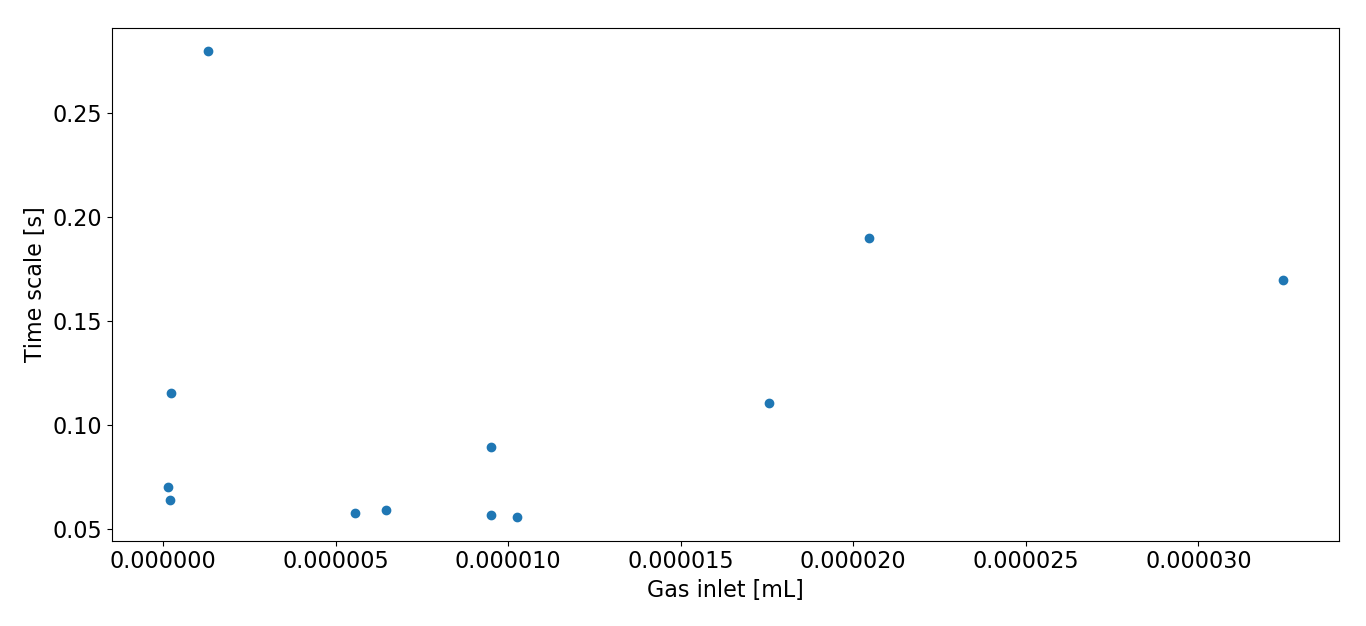
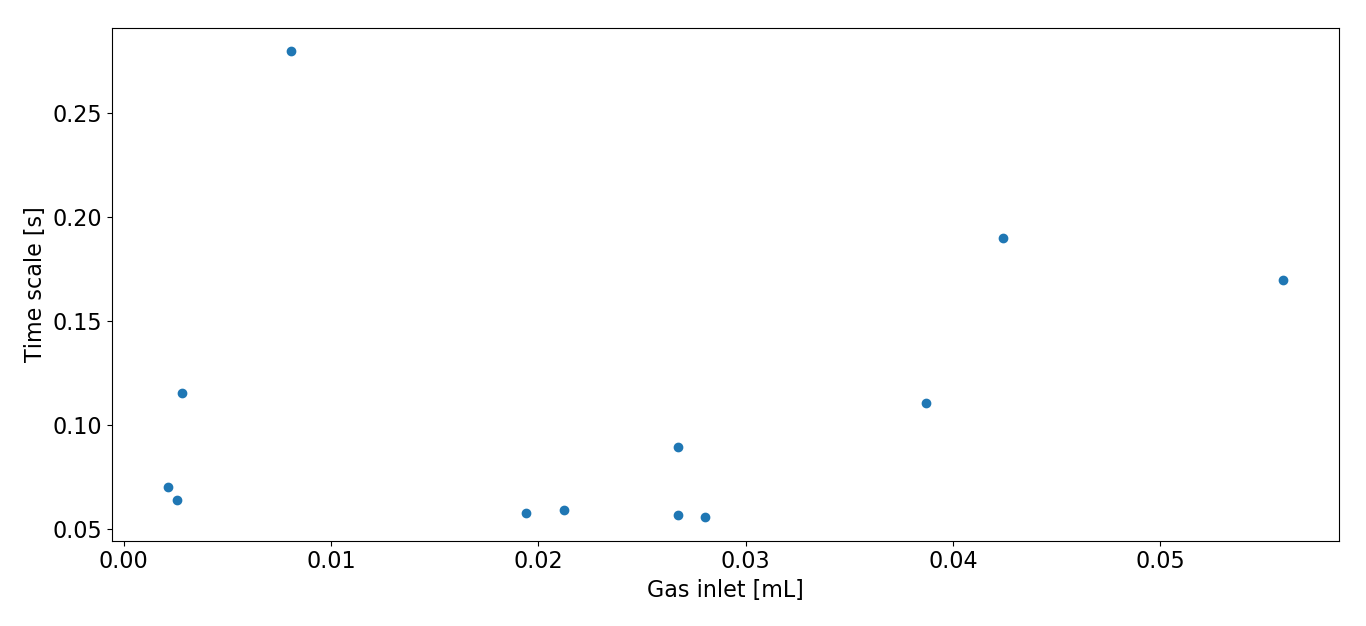
stuff modified

diff --git a/Exp 6/report/main.tex b/Exp 6/report/main.tex
@@ -250,18 +250,18 @@ where $P_i$ and $V_i$ are the initial pressure and initial volume inside the noz
 \centering
 \begin{tabular}{ccc} \toprule
     Gas inlet [mL] & Opening time [$\mu$s] & Frequency \\ \midrule
-$1.4\cdot 10^{-7} \pm 3\cdot 10^{-8}$& 120& 1\\
-$5\cdot 10^{-6} \pm 1\cdot 10^{-6}$& 190& 1\\
-$9\cdot 10^{-6} \pm 2\cdot 10^{-6}$& 230& 1\\\midrule
-$1.9\cdot 10^{-7} \pm 5\cdot 10^{-8}$& 120& 2\\
-$6\cdot 10^{-6} \pm 2\cdot 10^{-6}$& 190& 2\\
-$1.0\cdot 10^{-5} \pm 2\cdot 10^{-6}$& 230& 2\\ \midrule
-$2.2\cdot 10^{-7} \pm 5\cdot 10^{-8}$& 120& 5\\
-$9\cdot 10^{-6} \pm 2\cdot 10^{-6}$ & 190& 5\\ 
-$1.7\cdot 10^{-5} \pm 4\cdot 10^{-6}$ & 230& 5\\\midrule
-$1.3\cdot 10^{-6} \pm 3\cdot 10^{-7}$& 120& 10\\ 
-$2.0\cdot 10^{-5} \pm 5\cdot 10^{-6}$ & 190& 10\\
-$3.2\cdot 10^{-5} \pm 8\cdot 10^{-6}$ & 230& 10\\ \bottomrule
+0.0021 $\pm$ 0.0005 & 120& 1 \\
+0.019 $\pm$ 0.005& 190& 1\\
+0.027 $\pm$ 0.007 & 230& 1\\\midrule
+0.028 $\pm$ 0.007& 230& 2\\
+0.021$\pm$ 0.005& 190& 2\\
+0.0025$\pm$ 0.0006& 120& 2\\\midrule
+0.0028 $\pm$ 0.0007& 120& 5\\
+0.027$\pm$ 0.007 & 190& 5\\
+0.04 $\pm$ 0.01 & 230& 5\\\midrule
+0.05 $\pm$ 0.01& 230& 10\\
+0.04$\pm$ 0.01& 190& 10\\
+0.008$\pm$ 0.002& 120& 10\\\bottomrule
 \end{tabular}
 \caption{Gas inlet for various opening times and frequencies. }
 \end{table}
@@ -416,7 +416,7 @@ Pressure [Bar] & Opening time [$\mu$s] & $S_\parallel$ & $u$ [m/s] & $T_\paralle
 \end{tabular}
 \caption{Results from the Argon velocity distribution.}
 \end{table}
-From the Mach number we can see that we are indeed in the supersonic regime. The errors in the table were estimated with the error on the length $d$, which is the biggest source of uncertainty. Therefore we fitted the data first using the lower bound $d = 27$ cm, then again with the upper bound $d= 33$ cm, and we averaged the two results of the two fits, so we wrote the error as the relative distance divided by two.
+The errors in the table were estimated with the error on the length $d$, which is the biggest source of uncertainty. Therefore we fitted the data first using the lower bound $d = 27$ cm, then again with the upper bound $d= 33$ cm, and we averaged the two results of the two fits, so we wrote the error as the relative distance divided by two. From the Mach number we can see that we are indeed in the supersonic regime. Moreover, the longitudinal temperature is between 6 and 32 K, as expected 
 
 \subsection{Helium velocity distribution}
 We repeated the experiment with Helium instead of Argon, which is a lighter atom. Using the same procedure and the same analysis we obtained the velocity distribution in figure \ref{heliumtof}
@@ -436,6 +436,7 @@ Pressure [Bar] & Opening time [$\mu$s] & $S_\parallel$ & $u$ [m/s] & $T_\paralle
 \end{center}
 We notice that we are again in the supersonic regime and the mean velocities and the Mach numbers are greater with respect to the Argon as expected.
 \section{Conclusion}
+In this experiment we studied supersonic gas pulses of Argon inside a vacuum chamber. First we analyzed the pressure behaviour of the gas pulses, then we induced a plasma discharge in the pulse in order to create metastable excited Argon that we can detect at the channeltron. We characterized the channeltron detector and finally we measured the time of flight, which we used to study the velocity distribution of the pulse which reveals several features like longitudinal temperature, speed ratio, and Mach number. In addition to Argon, we also repeated the experiment with Helium and compared the results. As we expected the Helium pulse is faster then Argon and also we verified that the pulses travel at supersonic speed.  
 
 \begin{thebibliography}{99}
 \bibitem{datasheet_pfeiffer}

diff --git a/Exp 6/script.py b/Exp 6/script.py
@@ -100,9 +100,9 @@ if __name__ == "__main__":
 		t,v = read_data("data/ALL00"+str(i).zfill(2) +"/F00"+str(i).zfill(2) +"CH1.CSV")
 		p = V2P(v)
 		P_final = np.amax(p)*1e-5
-		V_initial = V_final*(P_final/P_initial)*1e3 #milliliters
+		V_initial = V_final*(P_final/P_initial)**(1/gamma)*1e3 #milliliters
 		gasquantity[i-1] = V_initial
-		print(str(V_initial)+" +/- " +str((P_final/P_initial)*1e3) + "& " +str(width[i-1])+ "& " +str(freq[i-1]))
+		print(str(V_initial)+" +/- " +str((P_final/P_initial)**(1/gamma)*1e3) + "& " +str(width[i-1])+ "& " +str(freq[i-1]))
 
 
 
